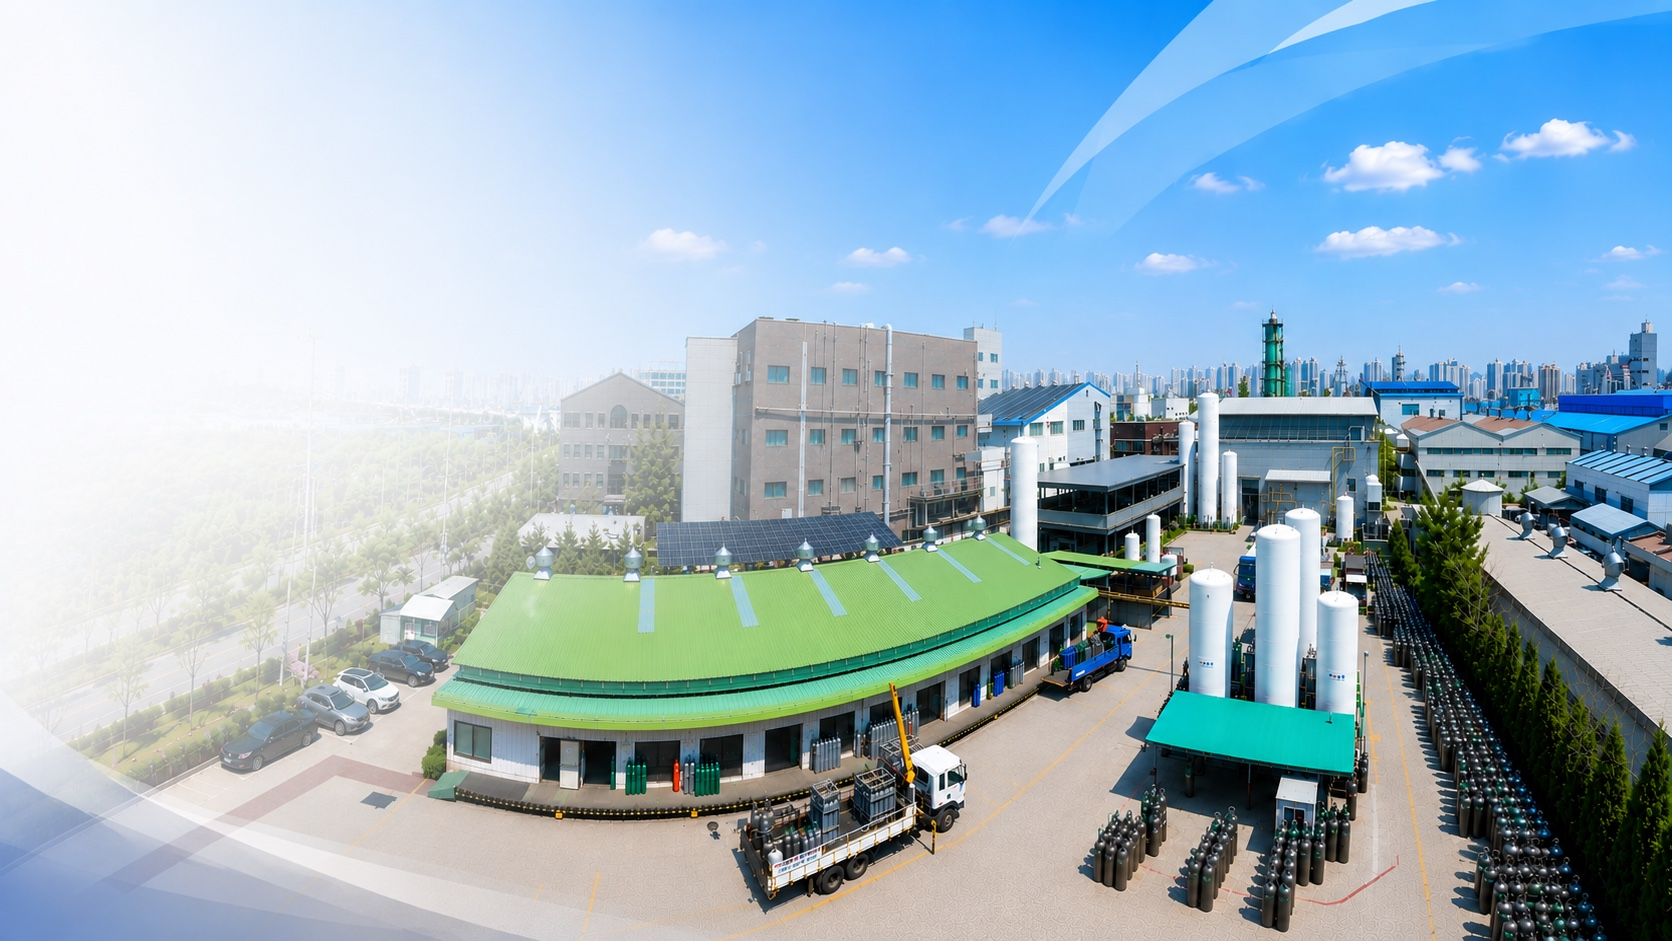
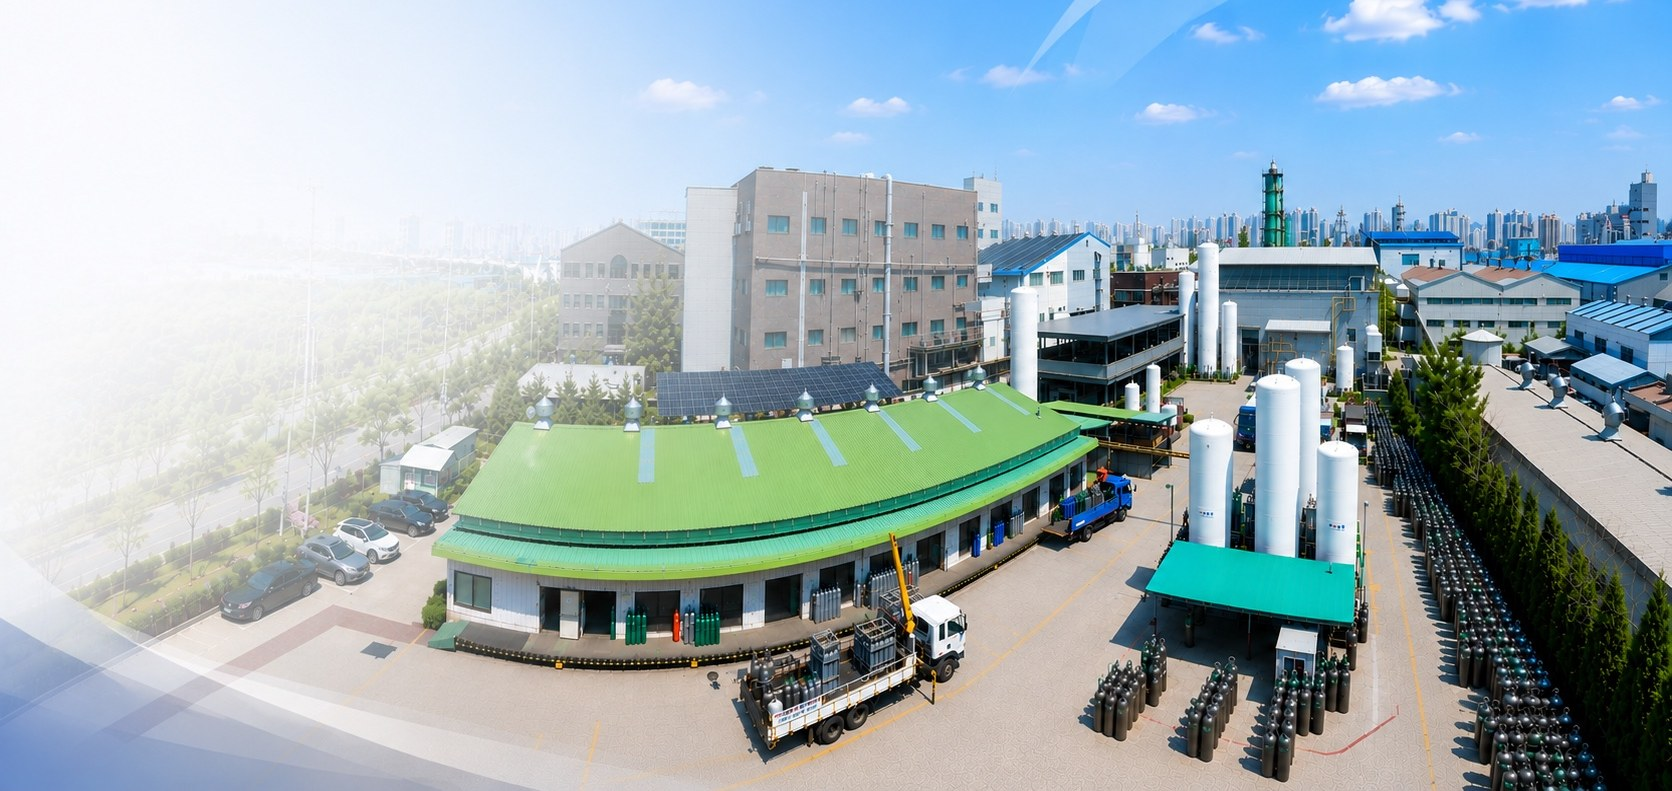
메인 회사소개 배경 이미지 상단 16% 크롭(하늘 축소)

diff --git a/index.html b/index.html
@@ -112,7 +112,7 @@
       <div class="container">
         <div class="abouthome-grid">
         <div class="abouthero">
-          <img class="abouthero__bg" src="assets/images/site/about-plant.jpg?v=20260902f" alt="한국탄산화학㈜ 시흥공장 전경" loading="lazy">
+          <img class="abouthero__bg" src="assets/images/site/about-plant.jpg?v=20260902g" alt="한국탄산화학㈜ 시흥공장 전경" loading="lazy">
           <div class="abouthero__inner">
             <span class="abouthero__eyebrow" data-i18n="home.about.eyebrow">ABOUT US</span>
             <h2 class="abouthero__title">
